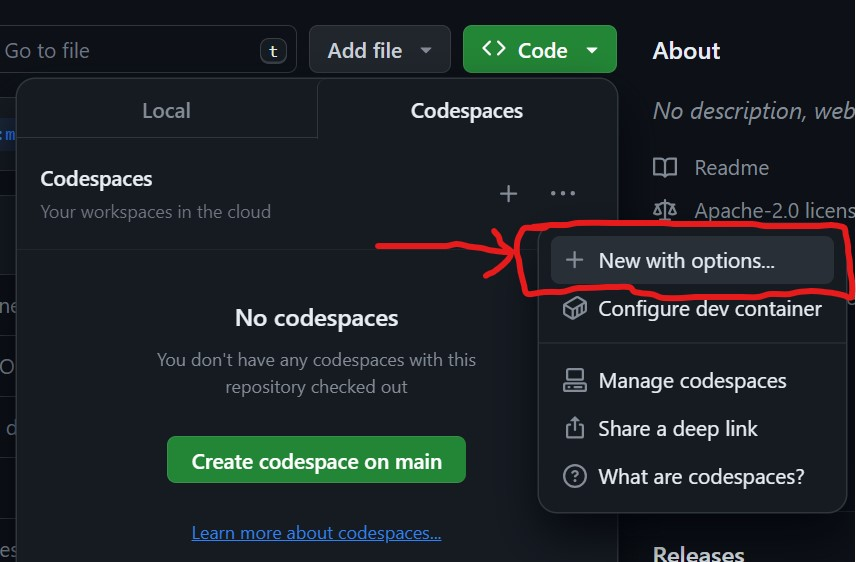
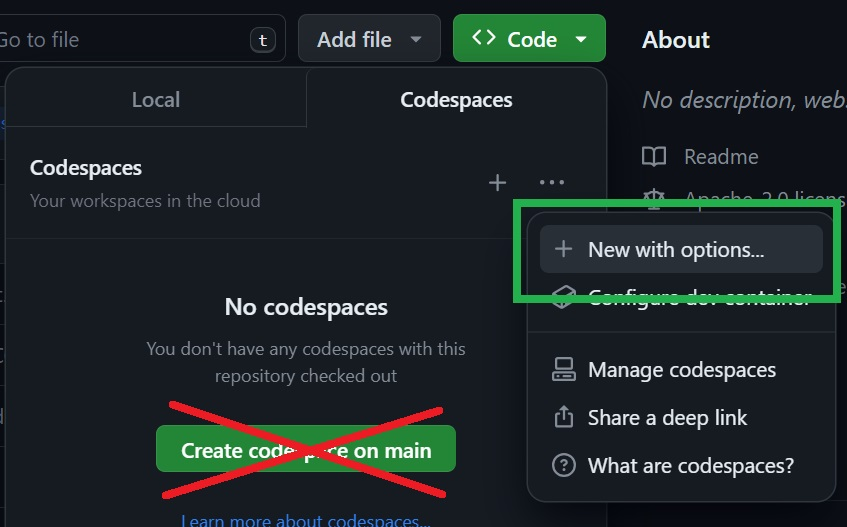
update

diff --git a/README.md b/README.md
@@ -81,8 +81,6 @@ In your fork, click the green `Code` button, change to `Codespaces`. Click the `
 
 **Warning!** Do not click the green "Create codespace on demo" button!!
 
-![do not click button](assets/do-not-click-main-codespace-btn.jpg)
-
 Fill in the form and launch the codespace.
 
 ![codespaces new with options](assets/codespace-new-with-options.jpg)
